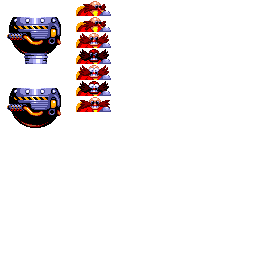
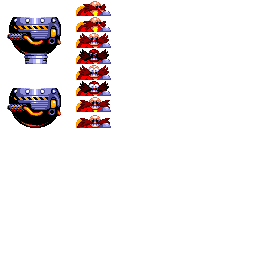
Add an extra frame to boss laugh

Changed region(s): [[0.2812, 0.4375, 0.4375, 0.5]]

diff --git a/src/object_state_update_R0.c b/src/object_state_update_R0.c
@@ -314,6 +314,7 @@ _boss_update(ObjectState *state, ObjectTableEntry *typedata, VECTOR *pos)
     switch(boss->state) {
     default: break;
     case BOSS_STATE_INIT:
+        state->frag_anim_state->animation = BOSS_ANIM_SMILING;
         boss->counter6 = BOSS_BOMB_INTERVAL;
         if(boss->counter4 < (boss->anchor.vy - (128 << 12))) {
             state->flipmask = MASK_FLIP_FLIPX;
@@ -541,7 +542,7 @@ _boss_update(ObjectState *state, ObjectTableEntry *typedata, VECTOR *pos)
     }
 
     // Animation control before defeat
-    if(boss->state < BOSS_STATE_DEAD) {
+    if((boss->state > BOSS_STATE_INIT) && (boss->state < BOSS_STATE_DEAD)) {
         if(boss->hit_cooldown > 0)
             state->frag_anim_state->animation = BOSS_ANIM_HIT;
         else state->frag_anim_state->animation =
